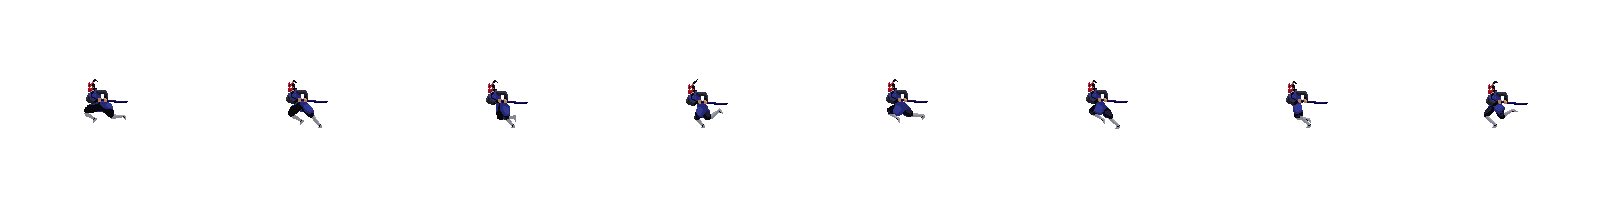
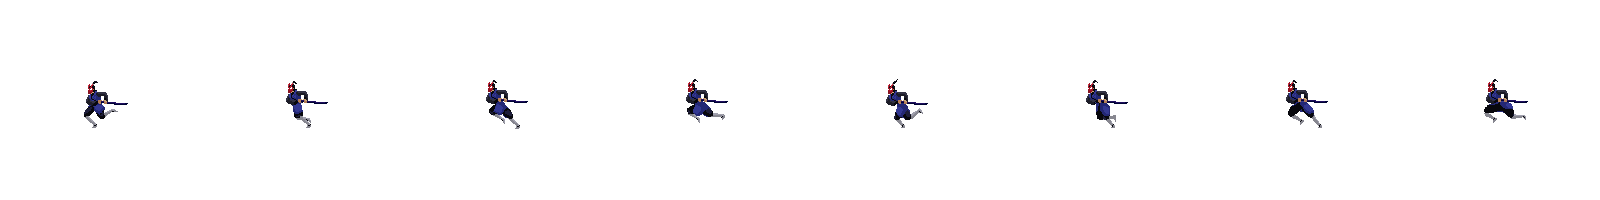
Fixed some animations and Added 2nd attack animations

diff --git a/js/classes.js b/js/classes.js
@@ -111,7 +111,7 @@ class Fighter extends Sprite {
     this.hitbox.position.y = this.position.y + this.hitbox.offset.y;
 
     // draw attack1 hitbox
-    // c.fillRect(this.hitbox.position.x, this.hitbox.position.y, this.hitbox.width, this.hitbox.height);
+    c.fillRect(this.hitbox.position.x, this.hitbox.position.y, this.hitbox.width, this.hitbox.height);
 
     this.position.x += this.velocity.x;
     this.position.y += this.velocity.y;
@@ -124,8 +124,13 @@ class Fighter extends Sprite {
     } else { this.velocity.y += gravity; }
   }
 
-  attack() {
+  attack1() {
     this.switchSprite("attack1");
+    this.isAttacking = true;
+  }
+
+  attack2() {
+    this.switchSprite("attack2");
     this.isAttacking = true;
   }
 
@@ -147,8 +152,10 @@ class Fighter extends Sprite {
 
     // overridiing all other animations with attack
     if (
-      this.image === this.sprites.attack1.image &&
-      this.framesCurrent < this.sprites.attack1.framesMax - 1
+      (this.image === this.sprites.attack1.image &&
+      this.framesCurrent < this.sprites.attack1.framesMax - 1) ||
+      (this.image === this.sprites.attack2.image &&
+      this.framesCurrent < this.sprites.attack2.framesMax - 1)
     ) { return; }
 
     //override when hit
@@ -190,6 +197,13 @@ class Fighter extends Sprite {
         if (this.image !== this.sprites.attack1.image) {
           this.image = this.sprites.attack1.image;
           this.framesMax = this.sprites.attack1.framesMax;
+          this.framesCurrent = 0;
+        }
+        break;
+      case "attack2":
+        if (this.image !== this.sprites.attack2.image) {
+          this.image = this.sprites.attack2.image;
+          this.framesMax = this.sprites.attack2.framesMax;
           this.framesCurrent = 0;
         }
         break;

diff --git a/index.js b/index.js
@@ -27,7 +27,7 @@ const shop = new Sprite({
 
 const player = new Fighter({
   position: {
-    x: 0,
+    x: 200,
     y: 0
   },
   velocity: {
@@ -92,7 +92,7 @@ const player = new Fighter({
 
 const enemy = new Fighter({
   position: {
-    x: 400,
+    x: 1024-250,
     y: 100
   },
   velocity: {
@@ -286,8 +286,11 @@ window.addEventListener("keydown", (event) => {
           player.canJump = false;
         }
         break;
-      case 's':
-        player.attack();
+      case 'q':
+        player.attack1();
+        break;
+      case 'e':
+        player.attack2();
         break;
     }
   }
@@ -309,8 +312,11 @@ window.addEventListener("keydown", (event) => {
           enemy.canJump = false;
         }
         break;
-      case 'k':
-        enemy.attack();
+      case 'u':
+        enemy.attack1();
+        break;
+      case 'o':
+        enemy.attack2();
         break;
     }
   }
